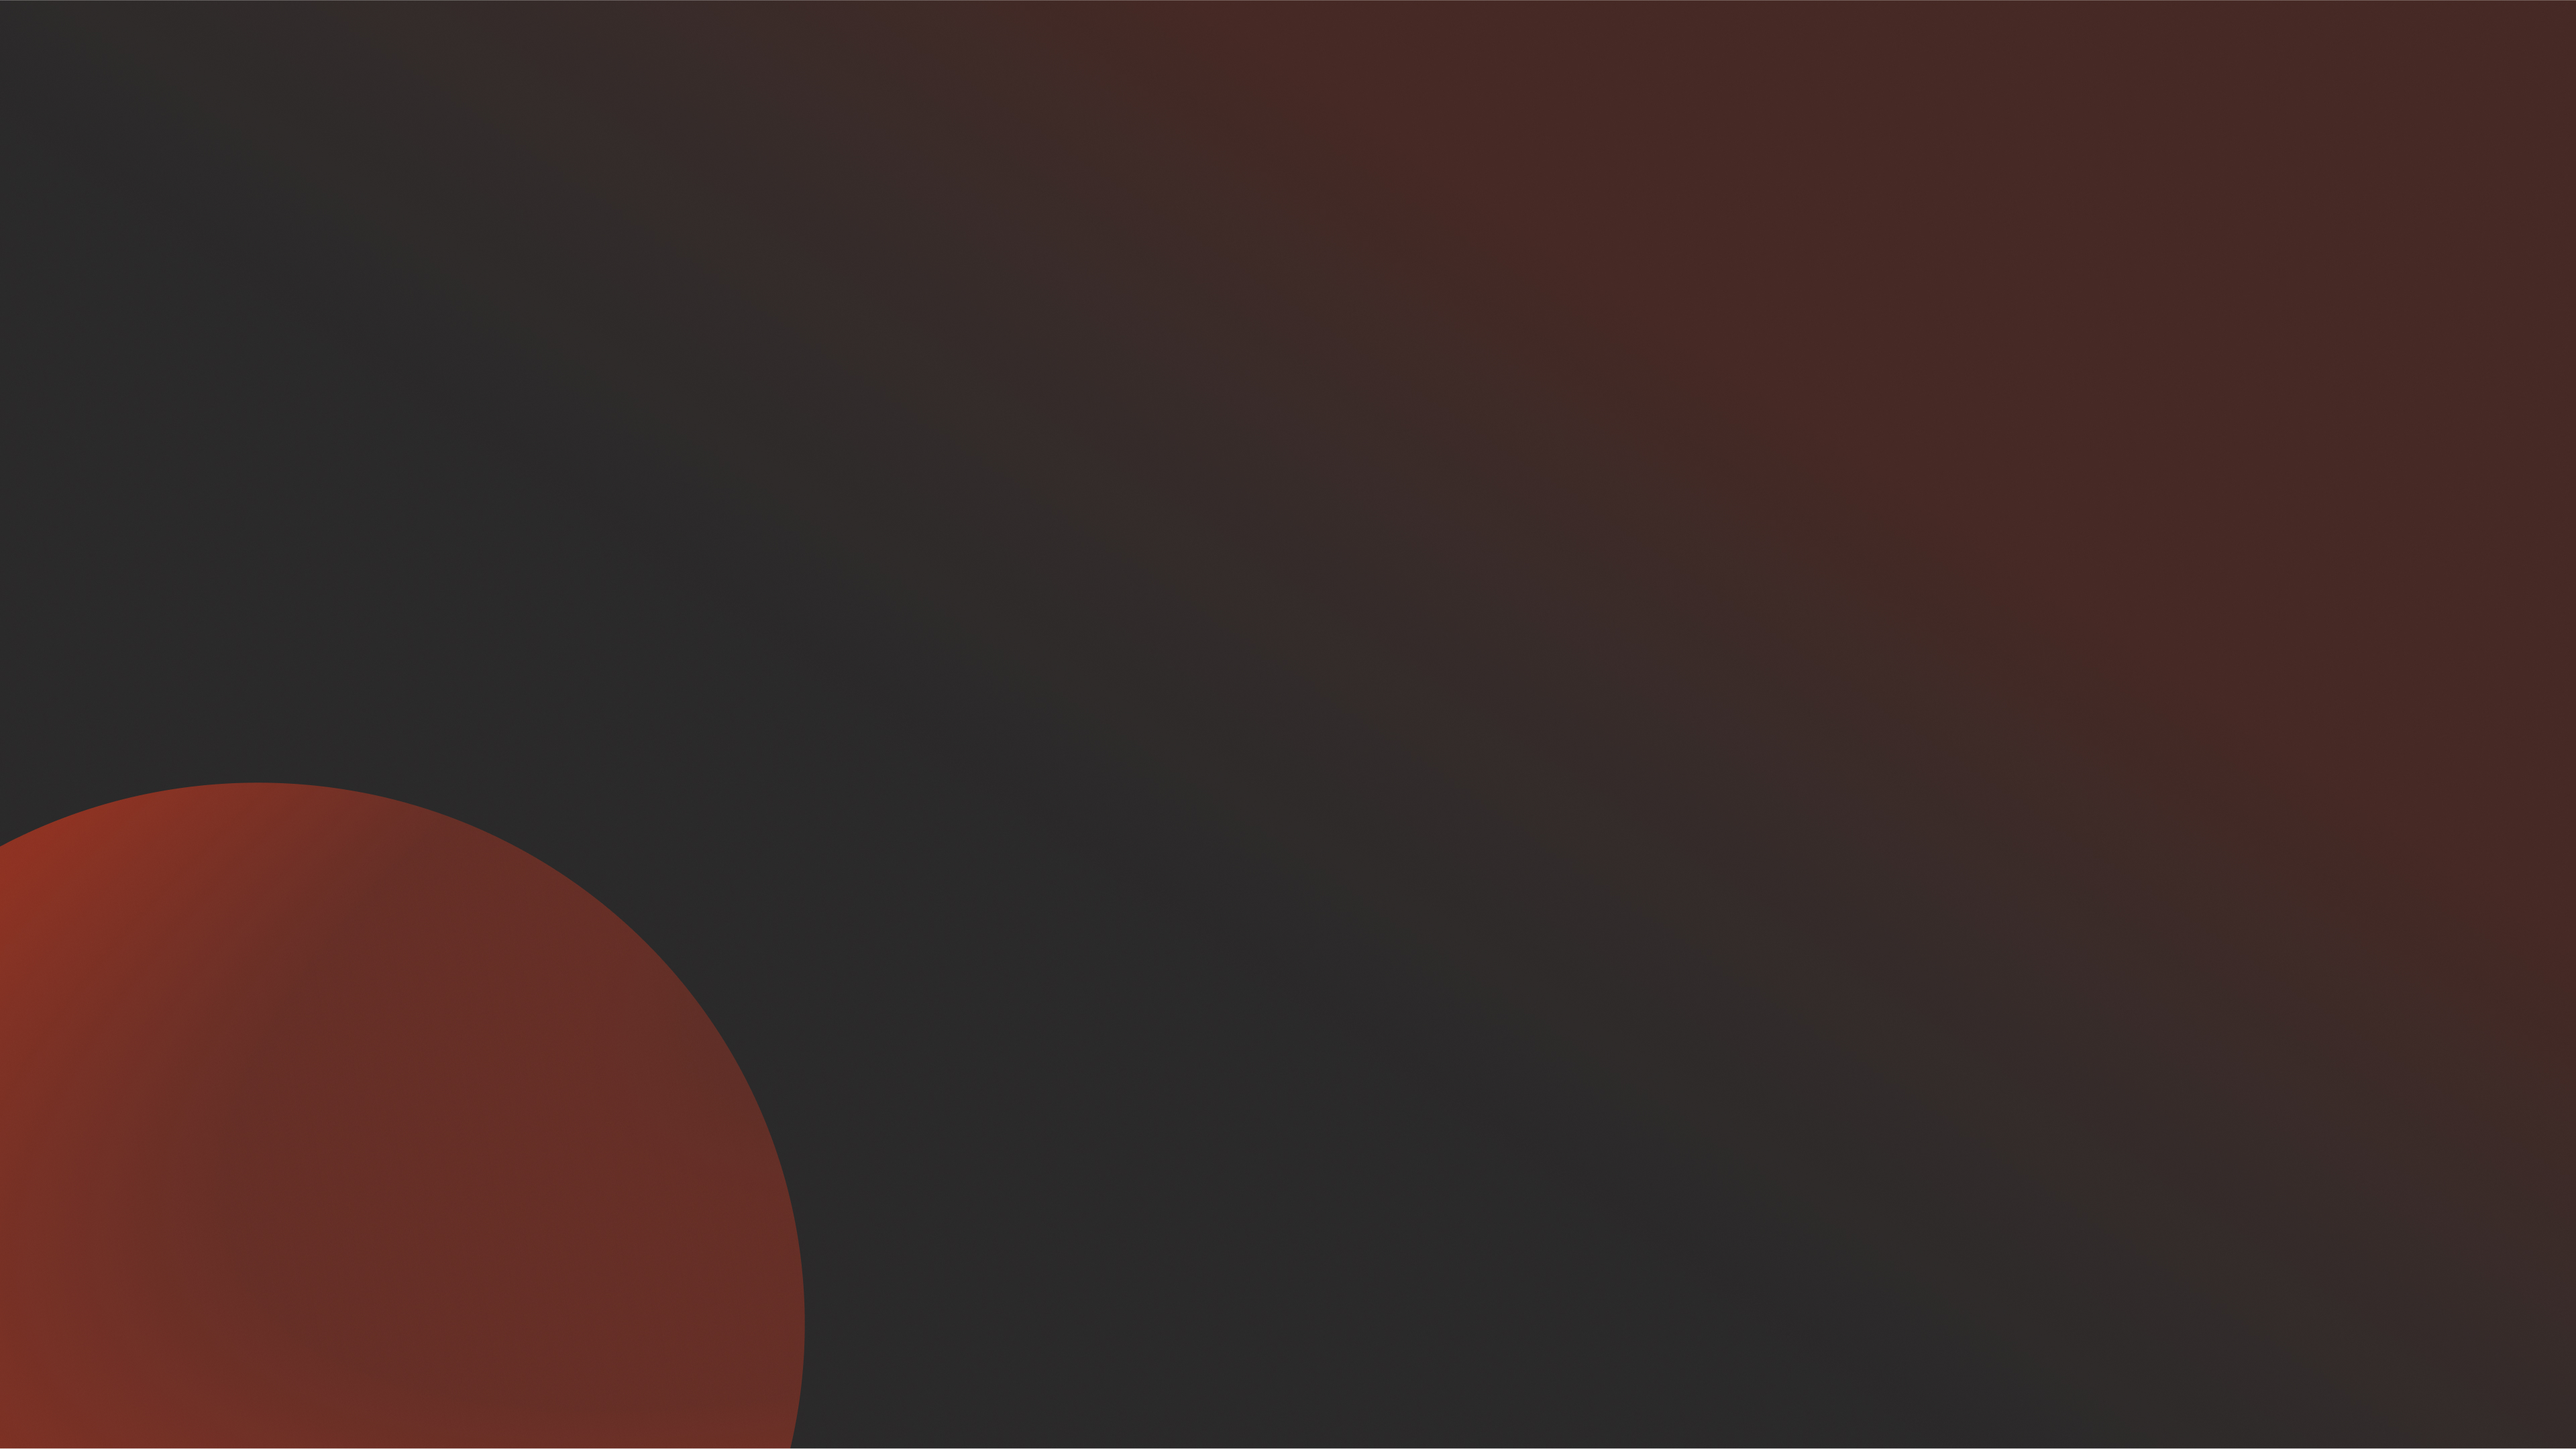
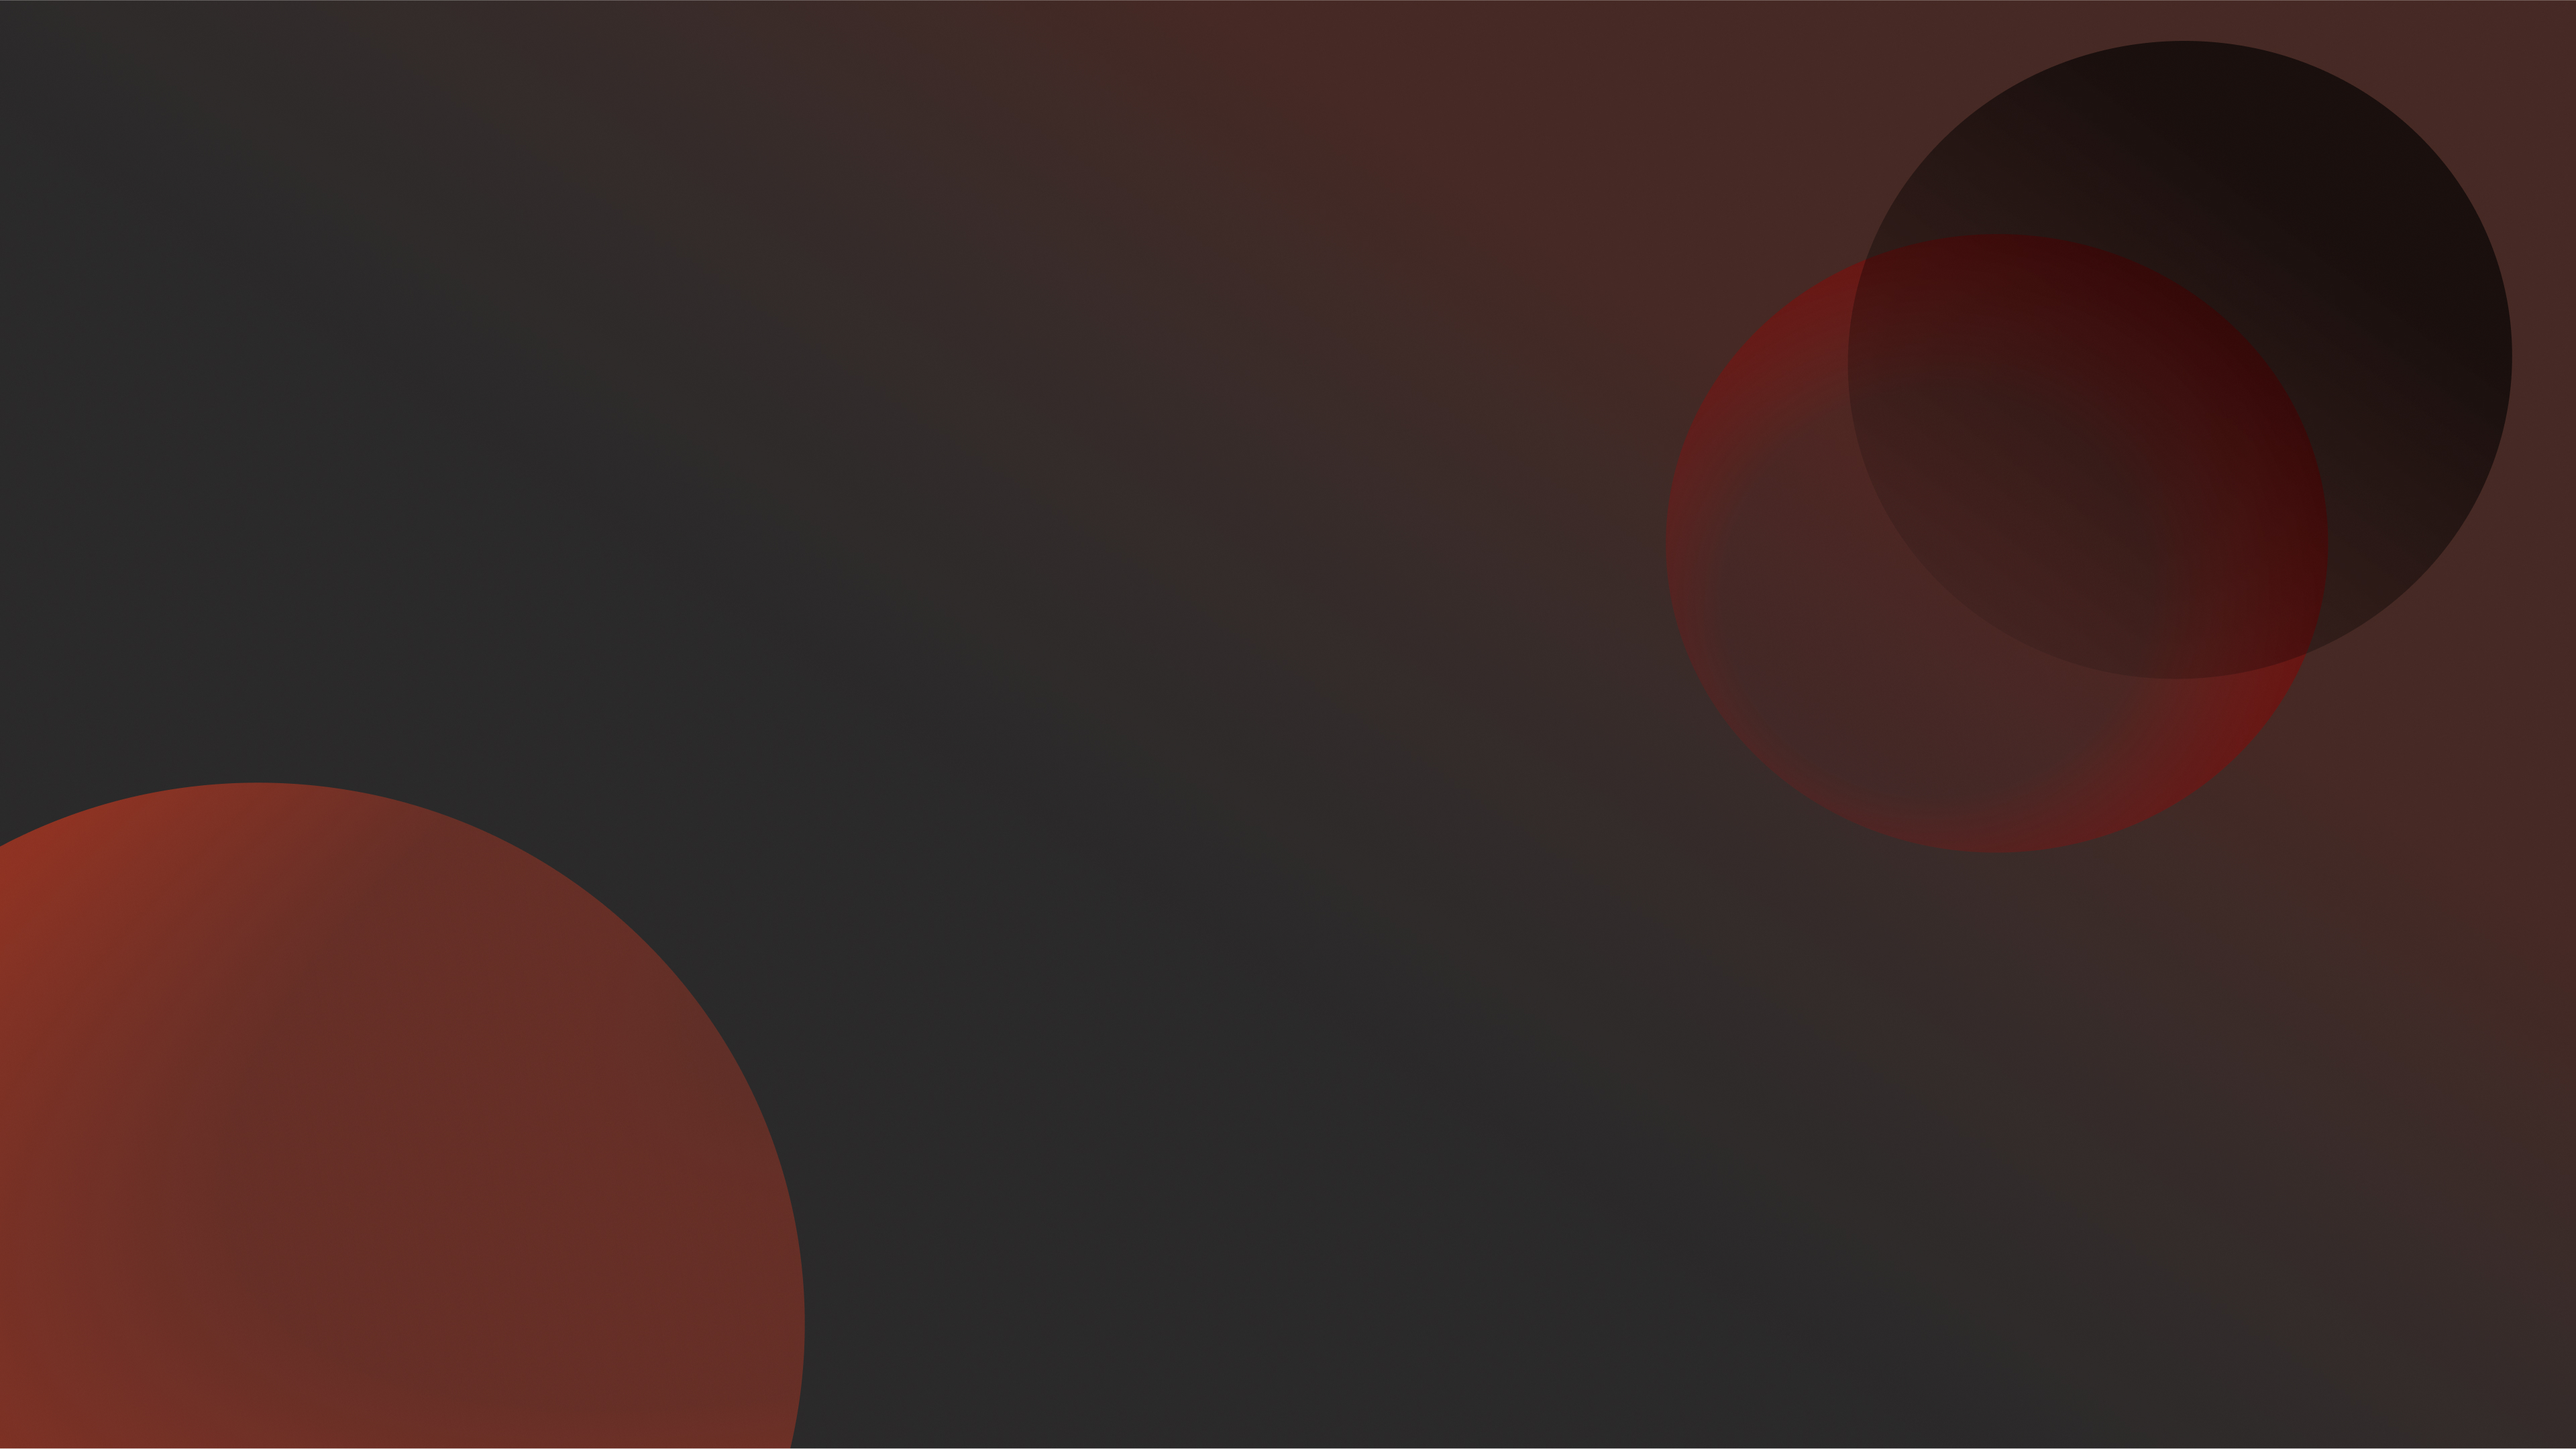
Update content bg and add sphere

Changed region(s): [[0.6562, 0.031, 1.0, 0.5891], [0.625, 0.31, 0.6562, 0.372]]

diff --git a/public/index.html b/public/index.html
@@ -1,63 +1,83 @@
 <!DOCTYPE html>
 <html lang="en">
+  <head>
+    <meta charset="UTF-8" />
+    <meta http-equiv="X-UA-Compatible" content="IE=edge" />
+    <meta name="viewport" content="width=device-width, initial-scale=1.0" />
+    <link rel="stylesheet" href="./util.css" />
+    <link rel="stylesheet" href="./style.css" />
+    <title>Gitinity</title>
+  </head>
 
-<head>
-  <meta charset="UTF-8" />
-  <meta http-equiv="X-UA-Compatible" content="IE=edge" />
-  <meta name="viewport" content="width=device-width, initial-scale=1.0" />
-  <link rel="stylesheet" href="./util.css">
-  <link rel="stylesheet" href="./style.css" />
-  <title>Gitinity</title>
-</head>
-
-<body>
-  <header class="header">
-    <nav class="header__nav">
-      <div class="header__container header__container--title">
-        <a href="#" class="header__link"><i class="fab fa-git-alt"></i></a>
-        <h1 class="header__title">
-          <a href="#" class="header__link">Gitinity</a>
-        </h1>
-      </div>
-      <div class="header__container">
-        <p class="header__date">
-          <a href="#" class="header__link">12:33:45</a>
-        </p>
-      </div>
-      <div class="header__container">
-        <a href="#" class="header__link">Themes</a>
-        <a href="#" class="header__qlink"><i class="fab fa-github"></i></a>
-      </div>
-    </nav>
-  </header>
-
-  <div id="terminal-wrapper">
-    <div class="terminal">
-      <div class="terminal-header">
-        <svg width="346" height="286" viewBox="0 0 346 286" fill="none" xmlns="http://www.w3.org/2000/svg">
-          <path fill-rule="evenodd" clip-rule="evenodd"
-            d="M53.7781 0.980469C44.9415 0.980469 37.7781 8.14391 37.7781 16.9805V229.64H16.1426C7.30602 229.64 0.142578 236.804 0.142578 245.64V269.662C0.142578 278.499 7.30605 285.662 16.1426 285.662H329.451C338.287 285.662 345.451 278.499 345.451 269.662V245.64C345.451 236.804 338.287 229.64 329.451 229.64H307.815V16.9805C307.815 8.14391 300.651 0.980469 291.815 0.980469H53.7781Z" />
-          <path fill-rule="evenodd" clip-rule="evenodd"
-            d="M163.065 141.428V207.917H182.896V141.428H237.248V117.331H182.896V51.2852H163.065V117.331H108.346V141.428H163.065Z"
-            fill="white" />
-        </svg>
-        <p>gitboys@pop!_os</p>
-        <svg width="265" height="265" viewBox="0 0 265 265" fill="none" xmlns="http://www.w3.org/2000/svg">
-          <path
-            d="M209.384 71.2889L193.898 55.8027L132.503 117.198L71.1072 55.8027L55.6211 71.2889L117.017 132.684L55.6211 194.08L71.1072 209.566L132.503 148.17L193.898 209.566L209.384 194.08L147.989 132.684L209.384 71.2889Z" />
-        </svg>
-      </div>
-      <div class="terminal-main">
-        <div class="terminal-commands">
-          <p><b>$</b>git init</p>
-          <pre>Initialized empty Git repository in /home/gitboys/git/.git</pre>
+  <body>
+    <header class="header">
+      <nav class="header__nav">
+        <div class="header__container header__container--title">
+          <a href="#" class="header__link"><i class="fab fa-git-alt"></i></a>
+          <h1 class="header__title">
+            <a href="#" class="header__link">Gitinity</a>
+          </h1>
         </div>
-        <div class="terminal-commands">
-          <p><b>$</b>git add .</p>
+        <div class="header__container">
+          <p class="header__date">
+            <a href="#" class="header__link">12:33:45</a>
+          </p>
         </div>
-        <div class="terminal-commands">
-          <p><b>$</b>git status</p>
-          <pre>
+        <div class="header__container">
+          <a href="#" class="header__link">Themes</a>
+          <a href="#" class="header__qlink"><i class="fab fa-github"></i></a>
+        </div>
+      </nav>
+    </header>
+
+    <div id="terminal-wrapper">
+      <div class="terminal">
+        <div class="terminal-header">
+          <svg
+            width="346"
+            height="286"
+            viewBox="0 0 346 286"
+            fill="none"
+            xmlns="http://www.w3.org/2000/svg"
+          >
+            <path
+              fill-rule="evenodd"
+              clip-rule="evenodd"
+              d="M53.7781 0.980469C44.9415 0.980469 37.7781 8.14391 37.7781 16.9805V229.64H16.1426C7.30602 229.64 0.142578 236.804 0.142578 245.64V269.662C0.142578 278.499 7.30605 285.662 16.1426 285.662H329.451C338.287 285.662 345.451 278.499 345.451 269.662V245.64C345.451 236.804 338.287 229.64 329.451 229.64H307.815V16.9805C307.815 8.14391 300.651 0.980469 291.815 0.980469H53.7781Z"
+            />
+            <path
+              fill-rule="evenodd"
+              clip-rule="evenodd"
+              d="M163.065 141.428V207.917H182.896V141.428H237.248V117.331H182.896V51.2852H163.065V117.331H108.346V141.428H163.065Z"
+              fill="white"
+            />
+          </svg>
+          <p>gitboys@pop!_os</p>
+          <svg
+            width="265"
+            height="265"
+            viewBox="0 0 265 265"
+            fill="none"
+            xmlns="http://www.w3.org/2000/svg"
+          >
+            <path
+              d="M209.384 71.2889L193.898 55.8027L132.503 117.198L71.1072 55.8027L55.6211 71.2889L117.017 132.684L55.6211 194.08L71.1072 209.566L132.503 148.17L193.898 209.566L209.384 194.08L147.989 132.684L209.384 71.2889Z"
+            />
+          </svg>
+        </div>
+        <div class="terminal-main">
+          <div class="terminal-commands">
+            <p><b>$</b>git init</p>
+            <pre>
+Initialized empty Git repository in /home/gitboys/git/.git</pre
+            >
+          </div>
+          <div class="terminal-commands">
+            <p><b>$</b>git add .</p>
+          </div>
+          <div class="terminal-commands">
+            <p><b>$</b>git status</p>
+            <pre>
 branch main
 
 no commits yet
@@ -65,28 +85,32 @@ no commits yet
 changes to be committed:
   (use "git rm --cached &ltfile&gt..." to unstage)
   new file: index.html
-<pre>
+          </pre
+            >
+          </div>
         </div>
       </div>
     </div>
-  </div>
 
-<div id="second-100vh">
-
-  <div class="search-bar-div">
-      <div class="search-bar">
-        <svg class="svg-icon" viewBox="0 0 20 20">
-          <path d="M18.125,15.804l-4.038-4.037c0.675-1.079,1.012-2.308,1.01-3.534C15.089,4.62,12.199,1.75,8.584,1.75C4.815,1.75,1.982,4.726,2,8.286c0.021,3.577,2.908,6.549,6.578,6.549c1.241,0,2.417-0.347,3.44-0.985l4.032,4.026c0.167,0.166,0.43,0.166,0.596,0l1.479-1.478C18.292,16.234,18.292,15.968,18.125,15.804 M8.578,13.99c-3.198,0-5.716-2.593-5.733-5.71c-0.017-3.084,2.438-5.686,5.74-5.686c3.197,0,5.625,2.493,5.64,5.624C14.242,11.548,11.621,13.99,8.578,13.99 M16.349,16.981l-3.637-3.635c0.131-0.11,0.721-0.695,0.876-0.884l3.642,3.639L16.349,16.981z"></path>
-        </svg>
-        <input type="text" placeholder="How to Git...">
+    <div class="content-cnt">
+      <div class="sphere-up1"></div>
+      <div class="sphere-up2"></div>
+      <div class="sphere-down"></div>
+      <div class="search-bar-div">
+        <div class="search-bar">
+          <svg class="svg-icon" viewBox="0 0 20 20">
+            <path
+              d="M18.125,15.804l-4.038-4.037c0.675-1.079,1.012-2.308,1.01-3.534C15.089,4.62,12.199,1.75,8.584,1.75C4.815,1.75,1.982,4.726,2,8.286c0.021,3.577,2.908,6.549,6.578,6.549c1.241,0,2.417-0.347,3.44-0.985l4.032,4.026c0.167,0.166,0.43,0.166,0.596,0l1.479-1.478C18.292,16.234,18.292,15.968,18.125,15.804 M8.578,13.99c-3.198,0-5.716-2.593-5.733-5.71c-0.017-3.084,2.438-5.686,5.74-5.686c3.197,0,5.625,2.493,5.64,5.624C14.242,11.548,11.621,13.99,8.578,13.99 M16.349,16.981l-3.637-3.635c0.131-0.11,0.721-0.695,0.876-0.884l3.642,3.639L16.349,16.981z"
+            ></path>
+          </svg>
+          <input type="text" placeholder="How to Git..." />
+        </div>
       </div>
-  </div>
-
-
-
-</div>
-  <script src="https://kit.fontawesome.com/68724ef369.js" crossorigin="anonymous"></script>
-  <script src="./main.js"></script>
-</body>
-
+    </div>
+    <script
+      src="https://kit.fontawesome.com/68724ef369.js"
+      crossorigin="anonymous"
+    ></script>
+    <script src="./main.js"></script>
+  </body>
 </html>

diff --git a/public/style.css b/public/style.css
@@ -6,6 +6,10 @@
   box-sizing: border-box;
 }
 
+html{
+  background-color: var(--body-bg);
+}
+
 body {
   min-height: 100vh;
   width: 100%;
@@ -116,9 +120,44 @@ a {
 }
 /* ----terminal end ------  */
 
-#second-100vh{
+/* ----content container----*/
+.content-cnt{
   height: 100vh;
-  background-color: #222;
+  background: var(--gradient);
+  overflow: hidden;
+  position: relative;
+}
+
+.sphere-up1{
+  height: 350px;
+  width: 350px;
+  border-radius: 50%;
+  background: var(--sphere-up1-clr);
+  position: absolute;
+  top: 20%;
+  right: 300px;
+  z-index: -1;
+}
+
+.sphere-up2{
+  height: 350px;
+  width: 350px;
+  border-radius: 50%;
+  background: var(--sphere-up2-clr);
+  position: absolute;
+  top: 10%;
+  right: 150px;
+  z-index: -1;
+}
+
+.sphere-down{
+  height: 600px;
+  width: 600px;
+  border-radius: 50%;
+  background: var(--sphere-down-clr);
+  position: absolute;
+  top: 68%;
+  left: -200px;
 }
 
 /* ----search bar start ------  */
@@ -149,7 +188,7 @@ a {
 }
 
 .search-bar path{
-  fill:#a09393;
+  fill: var(--accent);
 }
 
 .search-bar input{
@@ -160,7 +199,7 @@ a {
   border:none;
   padding-left:.8rem;
   font-size:1.3rem;
-  color:#a09393;
+  color: var(--accent);
 }
 
 .search-bar input:focus{
